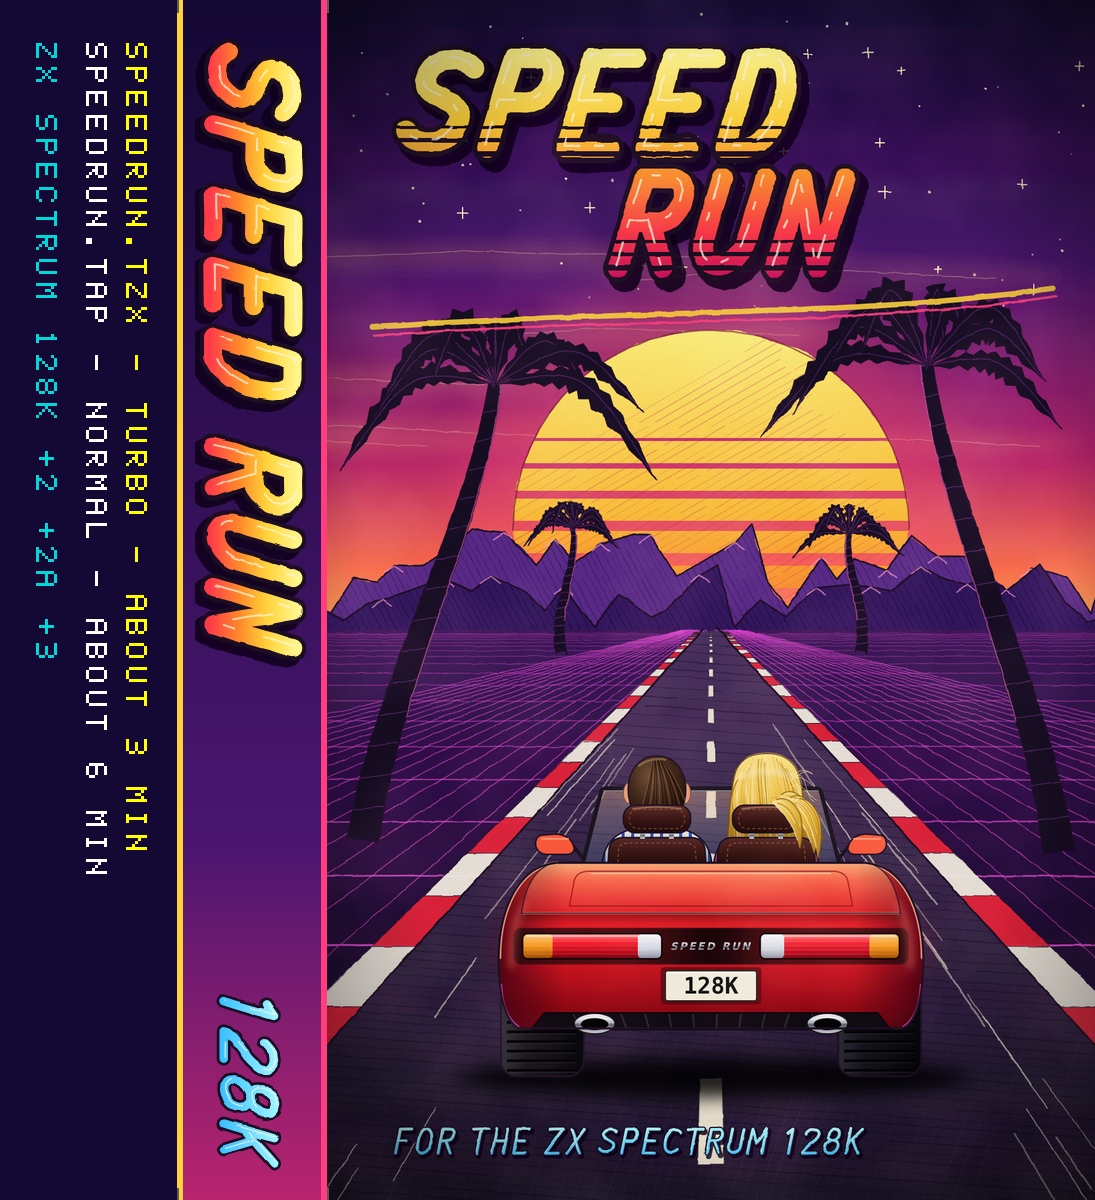
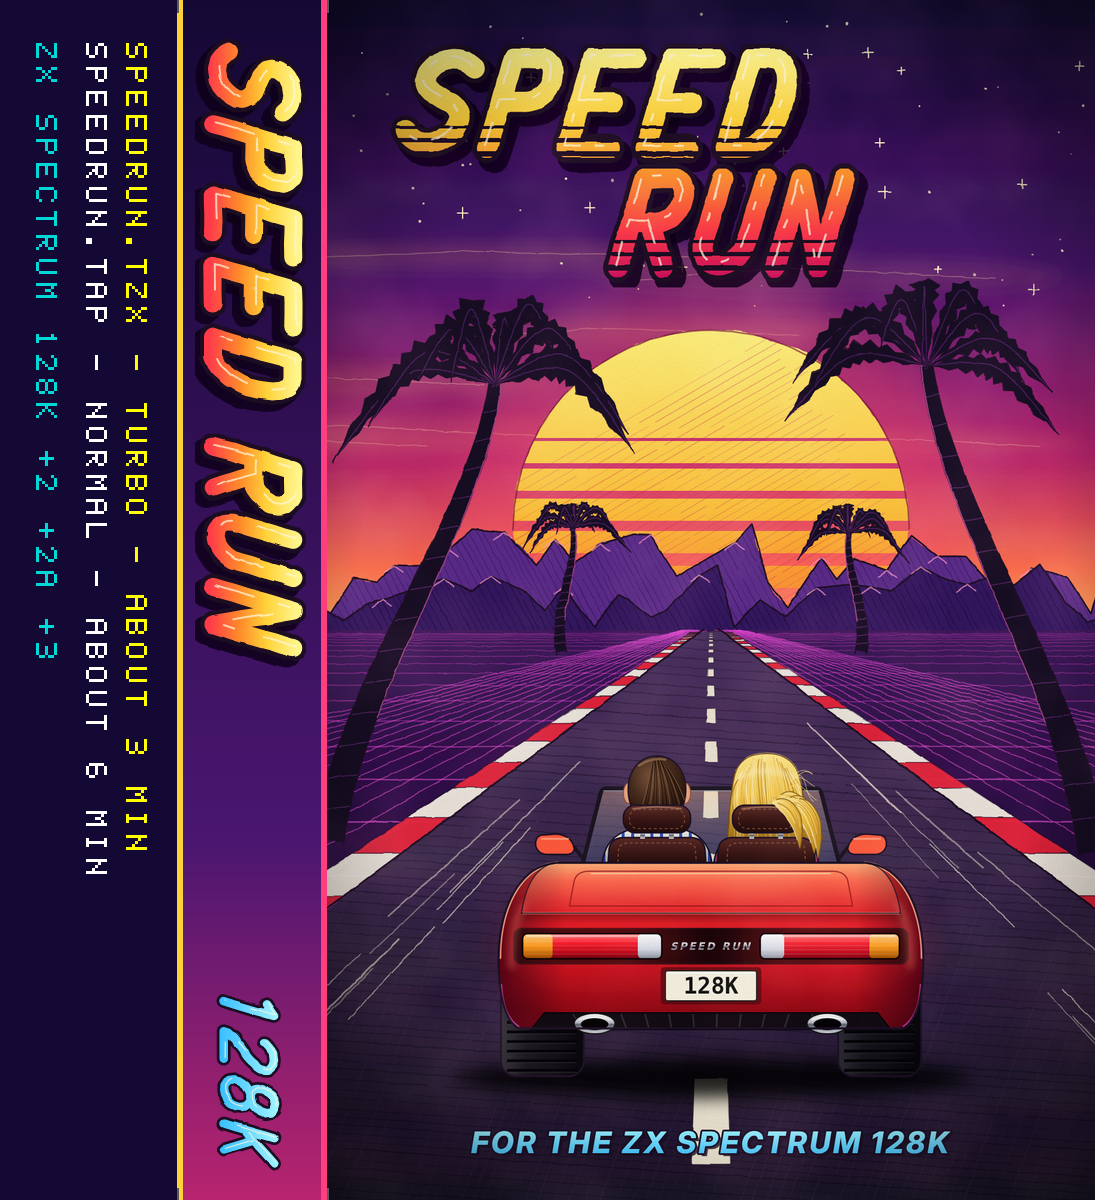
Cover: no lines under the title, a wider road, the tagline in type
- The swoosh under the title is gone from the cover (the loading
  screen's wide layout keeps it).
- The road widens toward the foreground (its kerbs, dashes and speed
  lines scaled to match); the two big palms stand clear of it.
- "For the ZX Spectrum 128K" is set in a typeface (Inter Display
  ExtraBold Italic) rather than brush lettering.

Claude-Session: https://claude.ai/code/session_0131gGbiN6b48386PumsB65w

diff --git a/tools/make_cover.py b/tools/make_cover.py
@@ -19,15 +19,17 @@ LAYOUTS = {
     "portrait": dict(W=1300, H=2000, HZ=1050, sun=(650, 880, 330), clouds=(380, 860), stars=520, grid=22,
                      title=[("SPEED", 120, 90, 1.12), ("RUN", 470, 290, 1.12)],
                      stripes=((210, 5), (230, 7), (252, 9), (400, 5), (420, 7), (442, 9)), logo_grad=(90, 460),
-                     swoosh=((90, 545), (500, 515), (900, 530), (1220, 480)),
-                     tag=("FOR THE ZX SPECTRUM 128K", 118, 1880, 0.3),
+                     swoosh=None,
+                     road=700,           # the road's edges at the bottom: this far past the sides
+                     tag=("FOR THE ZX SPECTRUM 128K", 650, 1922, 50),
                      car=None,
                      palms=[(900, 1086, 880, 890, 0.36, 1), (400, 1086, 420, 880, 0.34, -1),
-                            (1230, 1420, 1010, 610, 1.0, -1), (70, 1400, 290, 640, 1.0, 1)]),
+                            (1288, 1420, 1010, 610, 1.0, -1), (12, 1400, 290, 640, 1.0, 1)]),
     "wide": dict(W=1600, H=1200, HZ=640, sun=(800, 470, 230), clouds=(230, 520), stars=320, grid=27,
                  plain=True,             # (no paper grain, hatching or vignette: it becomes a Spectrum screen)
                  title=[("SPEED RUN", 330, 34, 0.9)],
                  swoosh=((300, 205), (700, 190), (1000, 200), (1320, 180)),
+                 road=260,
                  tag=None,
                  car=(800, 1128, 0.8),
                  palms=[(590, 676, 605, 510, 0.26, -1), (1010, 676, 995, 505, 0.28, 1),
@@ -338,15 +340,21 @@ def ground():
     return "\n".join(out)
 
 
+def road_scale():
+    """The road's width relative to the first drawing's (edges 260 past the sides)."""
+    return (W / 2 + L["road"]) / (W / 2 + 260)
+
+
 def road():
     out = []
+    rs, ro = road_scale(), L["road"]
     lt, rt = (VX - 14, HZ), (VX + 14, HZ)
-    lb, rb = (-260, H + 40), (W + 260, H + 40)
+    lb, rb = (-ro, H + 40), (W + ro, H + 40)
     poly = [lt, rt, rb, lb]
     out.append(fill(poly, "url(#asphalt)", 'filter="url(#wash)"'))
     cid = clip_of(poly)
-    out.append(hatch(cid, -260, HZ, W + 260, H, 4, 16, "#0c0716", 1.8, 0.45, 2))
-    out.append(hatch(cid, -260, HZ + 300, W + 260, H, -70, 22, "#4a3a6a", 1.2, 0.3, 2))
+    out.append(hatch(cid, -ro, HZ, W + ro, H, 4, 16, "#0c0716", 1.8, 0.45, 2))
+    out.append(hatch(cid, -ro, HZ + 300, W + ro, H, -70, 22, "#4a3a6a", 1.2, 0.3, 2))
 
     def edge(t, side):          # x of the road edge at screen y (t: 0 horizon .. 1 bottom)
         a, b = (lt, lb) if side < 0 else (rt, rb)
@@ -360,7 +368,7 @@ def road():
         if y0 > H + 40:
             break
         t0, t1 = (y0 - HZ) / (H + 40 - HZ), (min(y1, H + 40) - HZ) / (H + 40 - HZ)
-        kw0, kw1 = 10 + 120 * t0, 10 + 120 * t1
+        kw0, kw1 = (10 + 120 * t0) * rs, (10 + 120 * t1) * rs
         col = "#e8213a" if k % 2 else "#f4efe4"
         for side in (-1, 1):
             e0, e1 = edge(t0, side), edge(t1, side)
@@ -368,7 +376,7 @@ def road():
             out.append(fill(q, col, 'opacity="0.95"'))
             out.append(sketch(q, 1.3, INK, 1, 0.8, closed=True, opacity=0.6))
         if k % 2 == 0:
-            dw0, dw1 = 2 + 22 * t0, 2 + 22 * t1
+            dw0, dw1 = (2 + 22 * t0) * rs, (2 + 22 * t1) * rs
             q = [(VX - dw0, y0), (VX + dw0, y0), (VX + dw1, y1), (VX - dw1, y1)]
             out.append(fill(q, "#fdf6e0", 'opacity="0.9"'))
             out.append(sketch(q, 1.2, INK, 1, 0.8, closed=True, opacity=0.5))
@@ -829,7 +837,8 @@ def speed_lines():
     for k in range(26):
         side = rnd.choice((-1, 1))
         y = rnd.uniform(HZ + 150, H - 50)
-        x0 = VX + side * rnd.uniform(520, 640) * W / 1300 * (y - HZ) / (H - HZ) + side * rnd.uniform(0, 80)
+        x0 = (VX + side * rnd.uniform(520, 640) * W / 1300 * road_scale() * (y - HZ) / (H - HZ)
+              + side * rnd.uniform(0, 80))
         L = rnd.uniform(80, 220)
         dx = (x0 - VX) / max(1, y - HZ) * L
         out.append(sketch([(x0, y), (x0 + dx, y + L)], rnd.uniform(1.4, 3), "#fff6e0", 1, 0.8,
@@ -843,16 +852,24 @@ def title_and_tag():
         txt, _ = lettering(word, x, y, sc, 30, slant=0.3)
         out.append(txt)
     # swoosh under the title
-    sw = bez(*L["swoosh"], 30)
-    k = L["title"][0][3] / 1.12
-    out.append(sketch(sw, 9 * k, "#ffd23a", 1, 1.4, opacity=0.9))
-    out.append(sketch([(x, y + 14 * k) for x, y in sw], 4 * k, "#ff3d7f", 1, 1.4, opacity=0.9))
-    # bottom tag
-    if L["tag"]:
-        word, x, y, sc = L["tag"]
-        tag, _ = lettering(word, x, y, sc, 16, slant=0.2, grad="tagg", gap=118, wob=0.9, stripes=False)
-        out.append(tag)
+    if L["swoosh"]:
+        sw = bez(*L["swoosh"], 30)
+        k = L["title"][0][3] / 1.12
+        out.append(sketch(sw, 9 * k, "#ffd23a", 1, 1.4, opacity=0.9))
+        out.append(sketch([(x, y + 14 * k) for x, y in sw], 4 * k, "#ff3d7f", 1, 1.4, opacity=0.9))
     return "\n".join(out)
+
+
+def tagline():
+    """The bottom line, set in type (outside the hand-drawn wobble): centred at x, baseline y."""
+    if not L["tag"]:
+        return ""
+    word, x, y, size = L["tag"]
+    font = ('font-family="Inter Display, Inter, DejaVu Sans, sans-serif" font-weight="800" '
+            f'font-style="italic" font-size="{size}" letter-spacing="{f(size * 0.08)}" text-anchor="middle"')
+    return (f'<text x="{x + 5}" y="{y + 5}" {font} fill="{INK}" opacity="0.8">{word}</text>'
+            f'<text x="{x}" y="{y}" {font} fill="url(#tagg)" stroke="{INK}" stroke-width="{f(size * 0.12)}" '
+            f'stroke-linejoin="round" paint-order="stroke">{word}</text>')
 
 
 def defs():
@@ -940,6 +957,7 @@ def build():
         f'<g filter="url(#rough)">{speed_lines()}</g>',
         car_placed(),
         f'<g filter="url(#rough)">{title_and_tag()}</g>',
+        tagline(),
     ] + ([] if L.get("plain") else [
         f'<rect width="{W}" height="{H}" filter="url(#blotch)" style="mix-blend-mode:soft-light" opacity="0.55"/>',
         f'<rect width="{W}" height="{H}" filter="url(#paper)" style="mix-blend-mode:multiply" opacity="0.35"/>',
